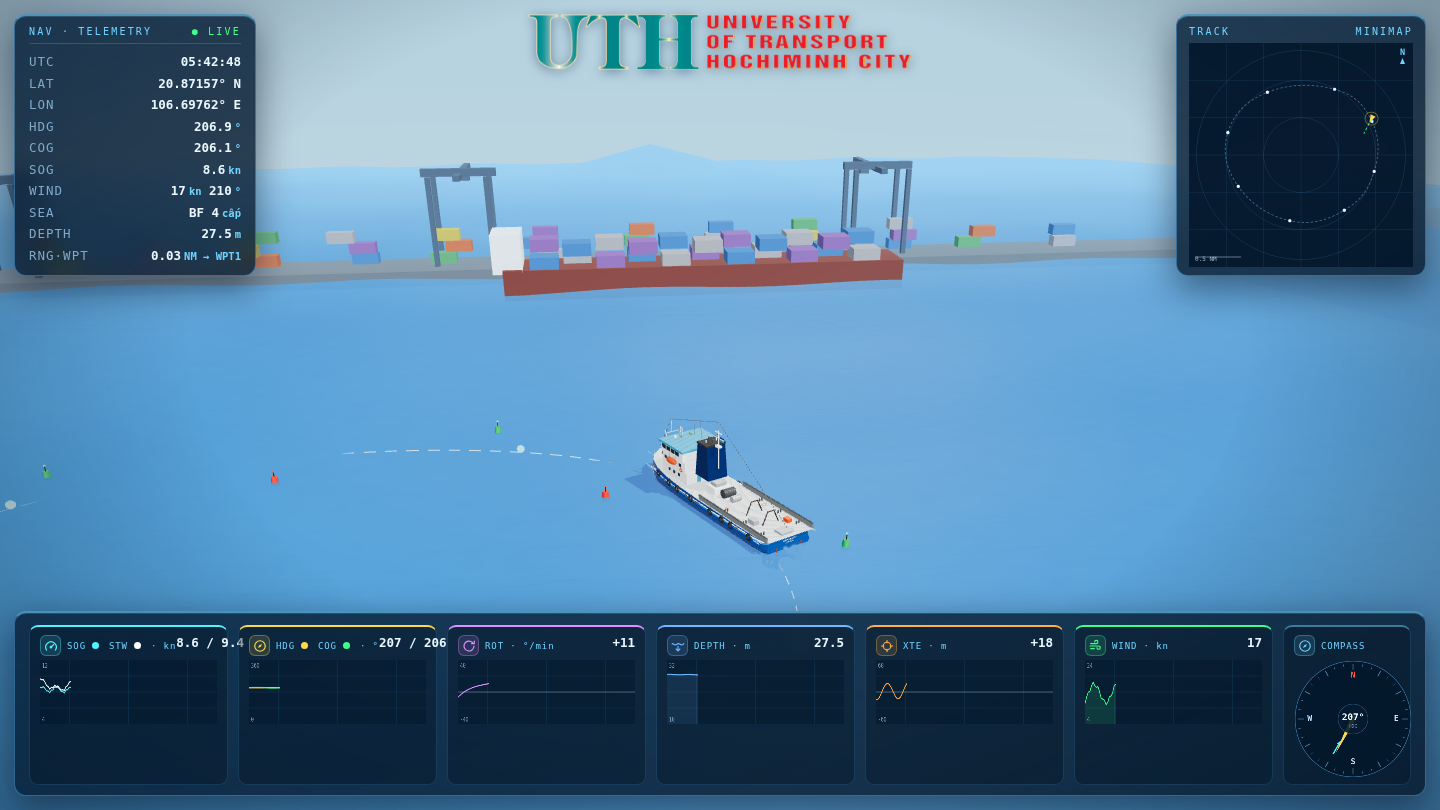
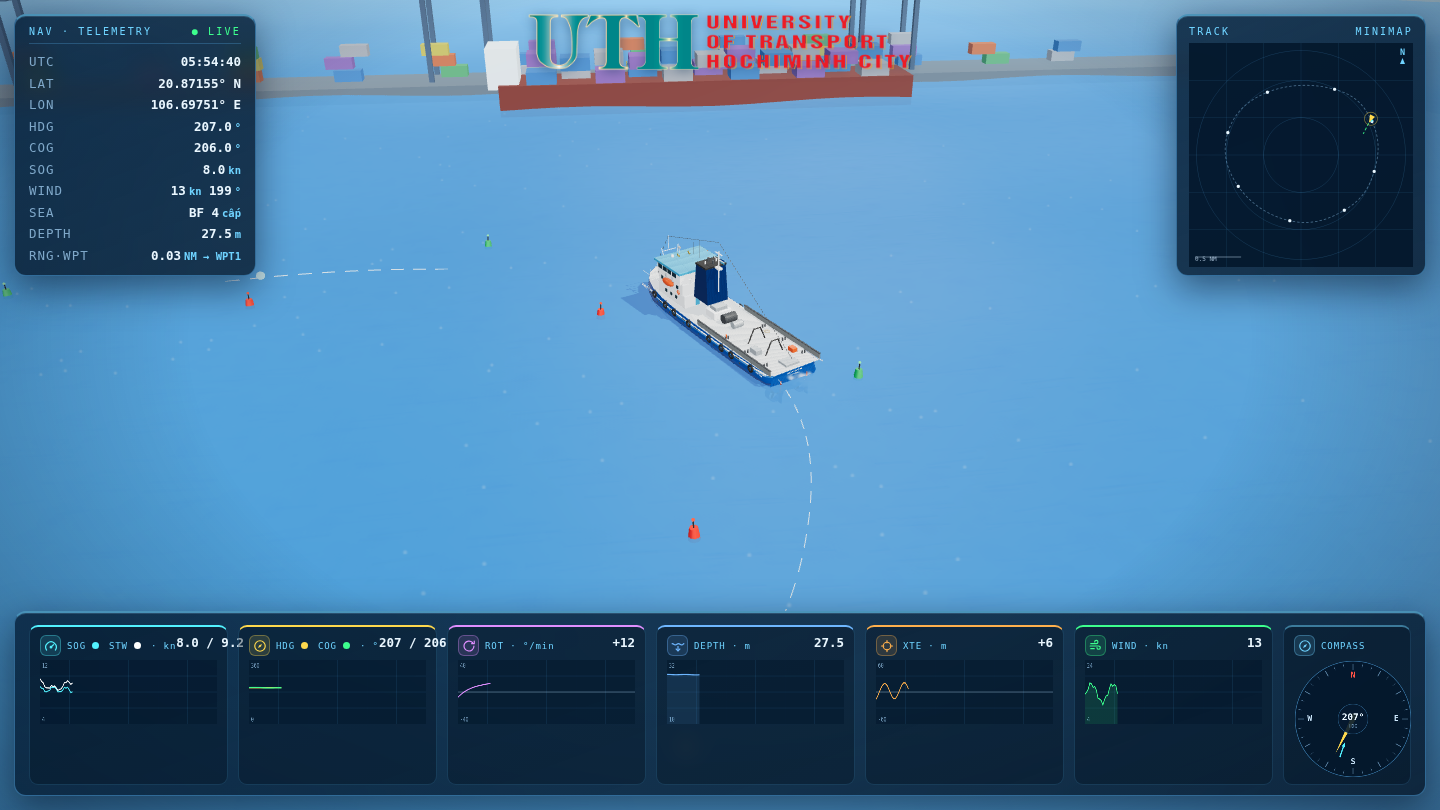
Fix frame-lift sign: view offset must be positive to raise the scene (negative pushed the ship down behind the console)

diff --git a/index.html b/index.html
@@ -1013,7 +1013,7 @@ animate();
 
 function applyFrameLift() {
   camera.aspect = innerWidth / innerHeight;
-  camera.setViewOffset(innerWidth, innerHeight, 0, -Math.round(innerHeight * 0.11), innerWidth, innerHeight);
+  camera.setViewOffset(innerWidth, innerHeight, 0, Math.round(innerHeight * 0.11), innerWidth, innerHeight);
   camera.updateProjectionMatrix();
 }
 addEventListener('resize', () => {
